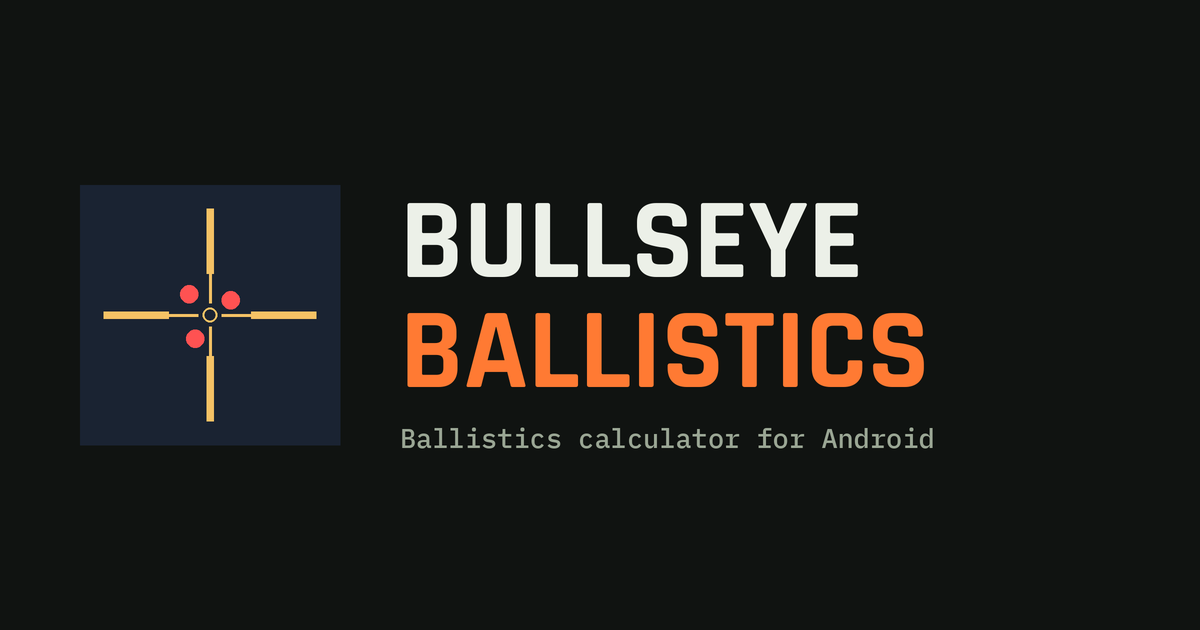
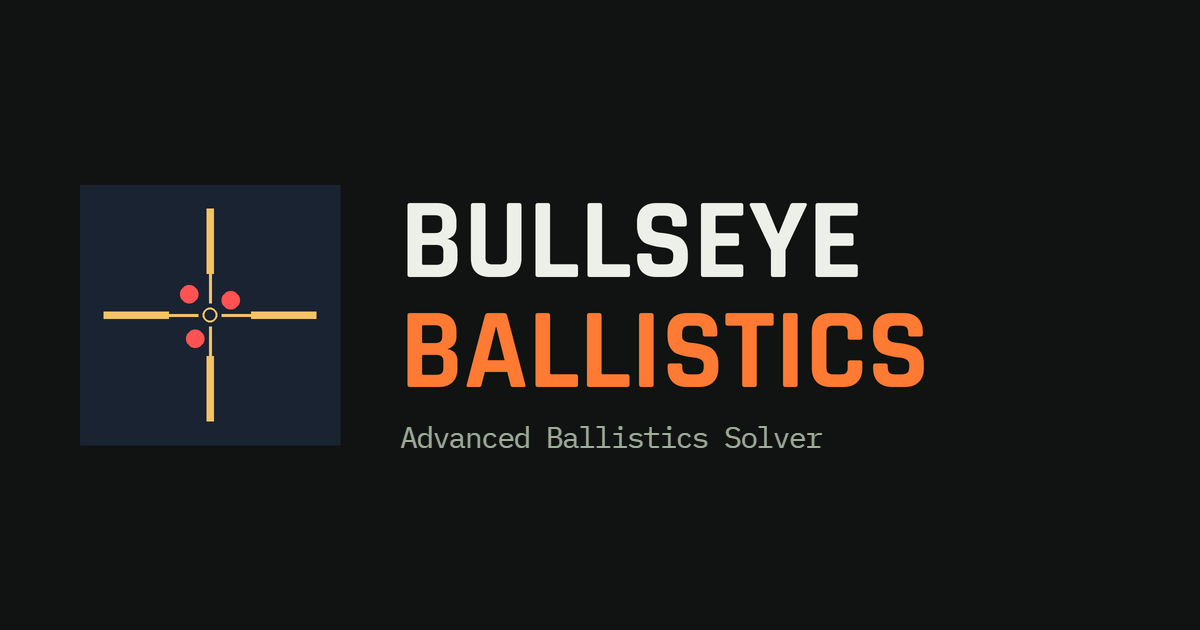
Share image: "Advanced Ballistics Solver" in place of "Ballistics calculator for Android"
og.png keeps everything else pixel for pixel; only the subtitle line is redrawn, in IBM Plex
Mono to match. The og:image URL gets ?v=2 so apps that cached the old picture fetch the new one.

Changed region(s): [[0.3392, 0.6635, 0.7708, 0.7238]]

diff --git a/index.html b/index.html
@@ -12,7 +12,7 @@
 <meta property="og:title" content="Bullseye Ballistics Calculator">
 <meta property="og:description" content="A ballistics calculator for Android that learns your rifle. Sagitta Ballistics AI that explains why you missed, live wind and weather from your Bluetooth sensors, hit probability, a gun number for every load, a shot log that trues the load, groups from a photo, matches, load development, Hunting Zero, Hunt Mode and an external HUD.">
 <meta property="og:url" content="https://bullseyeballisticscalculator.com/">
-<meta property="og:image" content="https://bullseyeballisticscalculator.com/assets/img/og.png">
+<meta property="og:image" content="https://bullseyeballisticscalculator.com/assets/img/og.png?v=2">
 <meta name="twitter:card" content="summary_large_image">
 <link rel="icon" href="favicon.svg" type="image/svg+xml">
 <link rel="apple-touch-icon" href="assets/img/apple-touch-icon.png">

diff --git a/features/index.html b/features/index.html
@@ -12,7 +12,7 @@
 <meta property="og:title" content="Features · Bullseye Ballistics">
 <meta property="og:description" content="Every feature, screen by screen: Sagitta Ballistics AI, the solution card, live sensors, Live Wind, the solver, rifles and loads, the shot log, groups, matches, voice calls, the external HUD, the stability calculator, backup, the gun number, barrel care, load development, Hunting Zero and Hunt Mode.">
 <meta property="og:url" content="https://bullseyeballisticscalculator.com/features/">
-<meta property="og:image" content="https://bullseyeballisticscalculator.com/assets/img/og.png">
+<meta property="og:image" content="https://bullseyeballisticscalculator.com/assets/img/og.png?v=2">
 <meta name="twitter:card" content="summary_large_image">
 <link rel="icon" href="../favicon.svg" type="image/svg+xml">
 <link rel="apple-touch-icon" href="../assets/img/apple-touch-icon.png">

diff --git a/load-development/index.html b/load-development/index.html
@@ -12,7 +12,7 @@
 <meta property="og:title" content="Load Development · Bullseye Ballistics">
 <meta property="og:description" content="Charge ladders and seating depth tests in Bullseye Ballistics: velocity readings and the actual groups you shot kept with every rung, a chart to compare them, one tap to turn a rung into a load, and velocity checks that follow your barrel&#x27;s wear.">
 <meta property="og:url" content="https://bullseyeballisticscalculator.com/load-development/">
-<meta property="og:image" content="https://bullseyeballisticscalculator.com/assets/img/og.png">
+<meta property="og:image" content="https://bullseyeballisticscalculator.com/assets/img/og.png?v=2">
 <meta name="twitter:card" content="summary_large_image">
 <link rel="icon" href="../favicon.svg" type="image/svg+xml">
 <link rel="apple-touch-icon" href="../assets/img/apple-touch-icon.png">

diff --git a/truing/index.html b/truing/index.html
@@ -12,7 +12,7 @@
 <meta property="og:title" content="Truing · Bullseye Ballistics">
 <meta property="og:description" content="Truing in Bullseye Ballistics: enter what you dialed to hit at two distances, and it corrects your velocity and drag together so every other distance matches too. With a before-and-after example, and how adaptive wind smoothing keeps your hold steady in gusts.">
 <meta property="og:url" content="https://bullseyeballisticscalculator.com/truing/">
-<meta property="og:image" content="https://bullseyeballisticscalculator.com/assets/img/og.png">
+<meta property="og:image" content="https://bullseyeballisticscalculator.com/assets/img/og.png?v=2">
 <meta name="twitter:card" content="summary_large_image">
 <link rel="icon" href="../favicon.svg" type="image/svg+xml">
 <link rel="apple-touch-icon" href="../assets/img/apple-touch-icon.png">

diff --git a/under-the-hood/index.html b/under-the-hood/index.html
@@ -12,7 +12,7 @@
 <meta property="og:title" content="Under the Hood · Bullseye Ballistics">
 <meta property="og:description" content="How Bullseye Ballistics turns live wind into a hold: smoothing matched to your target distance, wind direction averaged as a vector, a full flight simulation in 1 ms steps, and air density that changes as an angled shot climbs or drops.">
 <meta property="og:url" content="https://bullseyeballisticscalculator.com/under-the-hood/">
-<meta property="og:image" content="https://bullseyeballisticscalculator.com/assets/img/og.png">
+<meta property="og:image" content="https://bullseyeballisticscalculator.com/assets/img/og.png?v=2">
 <meta name="twitter:card" content="summary_large_image">
 <link rel="icon" href="../favicon.svg" type="image/svg+xml">
 <link rel="apple-touch-icon" href="../assets/img/apple-touch-icon.png">

diff --git a/hunting/index.html b/hunting/index.html
@@ -12,7 +12,7 @@
 <meta property="og:title" content="Hunting · Bullseye Ballistics">
 <meta property="og:description" content="Hunting Zero works out exactly how high to sight in for your load, the animal&#x27;s vital zone, your group size and the conditions where you hunt. Hunt Mode then tells you to hold center or gives the exact hold, and checks every shot is ethical.">
 <meta property="og:url" content="https://bullseyeballisticscalculator.com/hunting/">
-<meta property="og:image" content="https://bullseyeballisticscalculator.com/assets/img/og.png">
+<meta property="og:image" content="https://bullseyeballisticscalculator.com/assets/img/og.png?v=2">
 <meta name="twitter:card" content="summary_large_image">
 <link rel="icon" href="../favicon.svg" type="image/svg+xml">
 <link rel="apple-touch-icon" href="../assets/img/apple-touch-icon.png">

diff --git a/hit-probability/index.html b/hit-probability/index.html
@@ -12,7 +12,7 @@
 <meta property="og:title" content="Hit Probability · Bullseye Ballistics">
 <meta property="og:description" content="How Bullseye Ballistics works out your Hit Probability: today&#x27;s conditions, the errors it plans for in wind, range, BC and muzzle velocity, and your own accuracy from measured groups, called shots or an estimate.">
 <meta property="og:url" content="https://bullseyeballisticscalculator.com/hit-probability/">
-<meta property="og:image" content="https://bullseyeballisticscalculator.com/assets/img/og.png">
+<meta property="og:image" content="https://bullseyeballisticscalculator.com/assets/img/og.png?v=2">
 <meta name="twitter:card" content="summary_large_image">
 <link rel="icon" href="../favicon.svg" type="image/svg+xml">
 <link rel="apple-touch-icon" href="../assets/img/apple-touch-icon.png">

diff --git a/matches/index.html b/matches/index.html
@@ -12,7 +12,7 @@
 <meta property="og:title" content="Matches · Bullseye Ballistics">
 <meta property="og:description" content="Upload a match book or photograph a stage card, and Sagitta sets up the match in Bullseye Ballistics: every stage, position, target, distance and size, with the Match Director&#x27;s notes. Then step through every target at the line.">
 <meta property="og:url" content="https://bullseyeballisticscalculator.com/matches/">
-<meta property="og:image" content="https://bullseyeballisticscalculator.com/assets/img/og.png">
+<meta property="og:image" content="https://bullseyeballisticscalculator.com/assets/img/og.png?v=2">
 <meta name="twitter:card" content="summary_large_image">
 <link rel="icon" href="../favicon.svg" type="image/svg+xml">
 <link rel="apple-touch-icon" href="../assets/img/apple-touch-icon.png">

diff --git a/comparison/index.html b/comparison/index.html
@@ -12,7 +12,7 @@
 <meta property="og:title" content="Comparison · Bullseye Ballistics">
 <meta property="og:description" content="Compare Bullseye Ballistics to other popular solver apps, feature by feature: firing solutions, sensors, the External Display, shot logging and analysis, truing, groups, matches, load development, barrel care and Sagitta AI.">
 <meta property="og:url" content="https://bullseyeballisticscalculator.com/comparison/">
-<meta property="og:image" content="https://bullseyeballisticscalculator.com/assets/img/og.png">
+<meta property="og:image" content="https://bullseyeballisticscalculator.com/assets/img/og.png?v=2">
 <meta name="twitter:card" content="summary_large_image">
 <link rel="icon" href="../favicon.svg" type="image/svg+xml">
 <link rel="apple-touch-icon" href="../assets/img/apple-touch-icon.png">

diff --git a/external-display/index.html b/external-display/index.html
@@ -12,7 +12,7 @@
 <meta property="og:title" content="Bullseye Ballistics External Display">
 <meta property="og:description" content="The optional Bullseye Ballistics External Display mounts to your rifle or scope and shows your elevation and windage holds during the trigger press, with built-in level and angle sensors. Try it in the simulator.">
 <meta property="og:url" content="https://bullseyeballisticscalculator.com/external-display/">
-<meta property="og:image" content="https://bullseyeballisticscalculator.com/assets/img/og.png">
+<meta property="og:image" content="https://bullseyeballisticscalculator.com/assets/img/og.png?v=2">
 <meta name="twitter:card" content="summary_large_image">
 <link rel="icon" href="../favicon.svg" type="image/svg+xml">
 <link rel="apple-touch-icon" href="../assets/img/apple-touch-icon.png">

diff --git a/choosing-a-solver/index.html b/choosing-a-solver/index.html
@@ -12,7 +12,7 @@
 <meta property="og:title" content="Choosing a Solver · Bullseye Ballistics">
 <meta property="og:description" content="Most ballistic solvers give an accurate hold. Six questions to ask before you pick one: who makes it, what else it does, what gear it ties you to, and whether it works offline.">
 <meta property="og:url" content="https://bullseyeballisticscalculator.com/choosing-a-solver/">
-<meta property="og:image" content="https://bullseyeballisticscalculator.com/assets/img/og.png">
+<meta property="og:image" content="https://bullseyeballisticscalculator.com/assets/img/og.png?v=2">
 <meta name="twitter:card" content="summary_large_image">
 <link rel="icon" href="../favicon.svg" type="image/svg+xml">
 <link rel="apple-touch-icon" href="../assets/img/apple-touch-icon.png">

diff --git a/wind-corridor/index.html b/wind-corridor/index.html
@@ -12,7 +12,7 @@
 <meta property="og:title" content="Wind Corridor · Bullseye Ballistics">
 <meta property="og:description" content="Pair Bullseye Ballistics with Calypso LoRa wind meters downrange and see the wind between you and the target, live. Learn what it looks like in the mirage, leaves, trees and grass.">
 <meta property="og:url" content="https://bullseyeballisticscalculator.com/wind-corridor/">
-<meta property="og:image" content="https://bullseyeballisticscalculator.com/assets/img/og.png">
+<meta property="og:image" content="https://bullseyeballisticscalculator.com/assets/img/og.png?v=2">
 <meta name="twitter:card" content="summary_large_image">
 <link rel="icon" href="../favicon.svg" type="image/svg+xml">
 <link rel="apple-touch-icon" href="../assets/img/apple-touch-icon.png">
